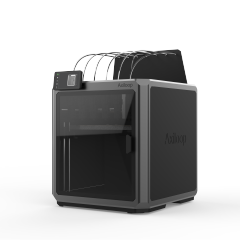
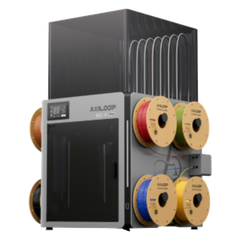
Give the MC8 and MC8 Pro their own pictures
Each model gets its own picture in the setup wizard, made from Axiloop's
product photos.

diff --git a/axiloop/CHANGED_FILES.md b/axiloop/CHANGED_FILES.md
@@ -133,7 +133,7 @@ Git usually carries upstream changes to these files over to the renamed files du
 | File | Purpose |
 |---|---|
 | `axiloop/CHANGED_FILES.md` | This overview. |
-| `resources/profiles/Axiloop.json`, `resources/profiles/Axiloop/` | Axiloop's own printer profiles, supplied by Axiloop for a test printer "X1" and renamed to the real models: **Axiloop MC8** and **Axiloop MC8 Pro**, each with a 0.4 mm nozzle, five shared print settings (0.12 to 0.28 mm, `@Axiloop MC8`) and four shared filaments (PLA, PETG, PVA, TPU, `@MC8`). The MC8 Pro is the MC8 with a heated chamber and an air system (`support_chamber_temp_control` and `support_air_filtration` on); the MC8 sets both off explicitly, because OrcaSlicer's default is on. Further changes to Axiloop's files: the start G-code that Axiloop supplied separately, `Axiloop PLA@MC8` as default filament, the AXILOOP-3D bed logo instead of the OrcaSlicer one, the same cover image for both models. Left out: filaments for an "Axiloop H400 Pro" that isn't in the profiles, a test filament and Value PLA. Checked with `OrcaSlicer_profile_validator`. | AXILOOP-3D comes with Axiloop's printers. |
+| `resources/profiles/Axiloop.json`, `resources/profiles/Axiloop/` | Axiloop's own printer profiles, supplied by Axiloop for a test printer "X1" and renamed to the real models: **Axiloop MC8** and **Axiloop MC8 Pro**, each with a 0.4 mm nozzle, five shared print settings (0.12 to 0.28 mm, `@Axiloop MC8`) and four shared filaments (PLA, PETG, PVA, TPU, `@MC8`). The MC8 Pro is the MC8 with a heated chamber and an air system (`support_chamber_temp_control` and `support_air_filtration` on); the MC8 sets both off explicitly, because OrcaSlicer's default is on. Further changes to Axiloop's files: the start G-code that Axiloop supplied separately, `Axiloop PLA@MC8` as default filament, the AXILOOP-3D bed logo instead of the OrcaSlicer one, a cover image of its own for each model (from Axiloop's product photos: background made transparent, 240 × 240 like the other vendors' covers). Left out: filaments for an "Axiloop H400 Pro" that isn't in the profiles, a test filament and Value PLA. Checked with `OrcaSlicer_profile_validator`. | AXILOOP-3D comes with Axiloop's printers. |
 | `resources/web/guide/21/common.js`, `resources/web/guide/21/common.css`, `resources/web/guide/22/common.js`, `resources/web/guide/1/1.css`, `resources/web/guide/css/dark.css` | Setup wizard: the printer page lists Axiloop at the top and all other brands under a collapsible "Other printers" (also in the Add printer window, which shares the script); the filament page shows only Axiloop's filaments when an Axiloop printer is selected (other brands can be ticked again); the welcome title uses a lighter navy in dark mode. "Other printers" is English only. | Axiloop customers see their own printers and filaments first. |
 | `axiloop/CODE_SIGNING.md` | Step-by-step guide to code signing the Windows installer and the Mac version, for readers who don't program. |
 | `.github/workflows/build_axiloop.yml` | Manual GitHub Actions build of the Linux AppImage and the macOS DMG (Actions → "Build AXILOOP-3D"). It reuses OrcaSlicer's build workflows, then renames the results to `AXILOOP-3D_Linux_V<version>.AppImage` and `AXILOOP-3D_Mac_universal_V<version>.dmg`, with the app bundle renamed to `AXILOOP-3D.app` and the DMG volume called AXILOOP-3D. The Mac version is signed and notarised when the signing secrets are set, otherwise unsigned. | OrcaSlicer's own workflows only sign and publish for OrcaSlicer's repository, and building everything daily isn't needed. A separate file keeps upstream merges free of conflicts. |
